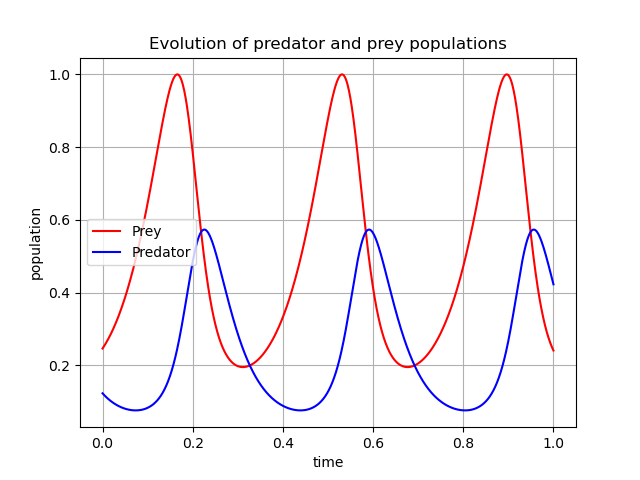
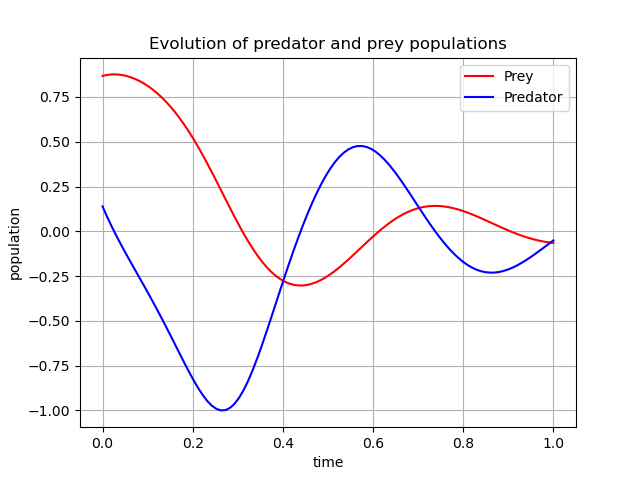
Simple nonlinear coupled ODE

diff --git a/lotka_volterra.py b/lotka_volterra.py
@@ -17,7 +17,6 @@ from train import train
 from library import LibraryLotkaVoltera
 
 import torch
-from torch.autograd import grad
 from torch.utils.data import DataLoader
 from itertools import combinations
 from functools import reduce
@@ -25,7 +24,7 @@ from functools import reduce
 from scipy.integrate import odeint
 
 # Settings for reproducibility
-np.random.seed(2)
+np.random.seed(40)
 torch.manual_seed(0)
 
 # lotka voltera model
@@ -33,19 +32,35 @@ a = 1.
 b = 0.1
 c = 1.5
 d = 0.75
-def dU_dt(U, t=0):
-    """ Return the growth rate of predator and prey populations. 
-    U: [x, y] population vector
-    """
-    return np.array([ a*U[0] -   b*U[0]*U[1] ,
-                  -c*U[1] + d*b*U[0]*U[1] ])
+# def dU_dt(U, t=0):
+#     """ Return the growth rate of predator and prey populations. 
+#     U: [x, y] population vector
+#     """
+#     return np.array([ a*U[0] -   b*U[0]*U[1] ,
+#                   -c*U[1] + d*b*U[0]*U[1] ])
+# t = np.linspace(0, 15,  1000)              # time
+# U0 = np.array([10, 5])                     # initials conditions: 10 prey and 5 predator
+# U = odeint(dU_dt, U0, t)
 
-t = np.linspace(0, 15,  1000)              # time
-U0 = np.array([10, 5])                     # initials conditions: 10 prey and 5 predator
+def dU_dt(U, t):
+    return [U[1], -1*U[1] - 5*np.sin(U[0])]
+U0 = [2.5, 0.4]
+
+t = np.linspace(0, 5,  100)              # time
 U = odeint(dU_dt, U0, t)
 
-t_norm = t/np.max(t)
-U_norm = U/np.max(U)
+t_norm = t
+U_norm = U
+# noisify data
+noise = 0.1*np.random.randn(U.shape[0], U.shape[1])
+U_noise = U # + noise
+U_noise_norm = U_noise
+
+normalise = True
+if normalise:
+    t_norm = t/np.max(np.abs(t))
+    U_norm = U/np.max(np.abs(U))
+    U_noise_norm = U_noise/np.max(np.abs(U_noise))
 
 plt.figure()
 plt.plot(t_norm, U_norm[:, 0], 'r-', label='Prey')
@@ -57,10 +72,6 @@ plt.ylabel('population')
 plt.title('Evolution of predator and prey populations')
 plt.savefig("./figs/lotkavolterra_sim.png")
 
-# noisify data
-noise = 1.0*np.random.randn(U.shape[0], U.shape[1])
-U_noise = U + noise
-U_noise_norm = U_noise/np.max(U_noise)
 plt.figure()
 plt.plot(t_norm, U_noise_norm[:, 0], 'r-', label='Prey')
 plt.plot(t_norm, U_noise_norm[:, 1]  , 'b-', label='Predator')
@@ -99,10 +110,8 @@ optimizer = torch.optim.Adam(model.parameters(), betas=(0.99, 0.99), amsgrad=Tru
 
 # logdir
 logpath = r'./logs/lotkavoltera'
-if not os.path.exists(logpath):
-    os.makedirs(logpath)
 
-train(model, X, y, optimizer,sparsity_scheduler, log_dir='runs/2DAD/', split=0.8, max_iterations=100000, delta=1e-4, patience=8) 
+train(model, X, y, optimizer,sparsity_scheduler, log_dir=logpath, split=0.8, max_iterations=100000, delta=1e-4, patience=8) 
 
 print(model.sparsity_masks)
 print(model.estimator_coeffs())

diff --git a/library.py b/library.py
@@ -26,7 +26,7 @@ class LibraryLotkaVoltera(Library):
         C = torch.ones_like(prediction[:,0]).view(samples, -1)
         u = prediction[:,0].view(samples, -1)
         v = prediction[:,1].view(samples, -1)
-        theta = torch.cat((C, u, v, u*v),dim=1)
+        theta = torch.cat((C, u, v, torch.sin(u)), dim=1)
 
         # Construct a list of time_derivatives 
         for output in torch.arange(prediction.shape[1]):

diff --git a/README.md b/README.md
@@ -2,7 +2,7 @@
 Harvard AM205 Final course project
 
 ### Requirements
-This project utilises the DeepMoD library
+This project utilises the [DeepMoD library](https://phimal.github.io/DeePyMoD/)
 ```
 $ pip intsall deepymod
 ```
